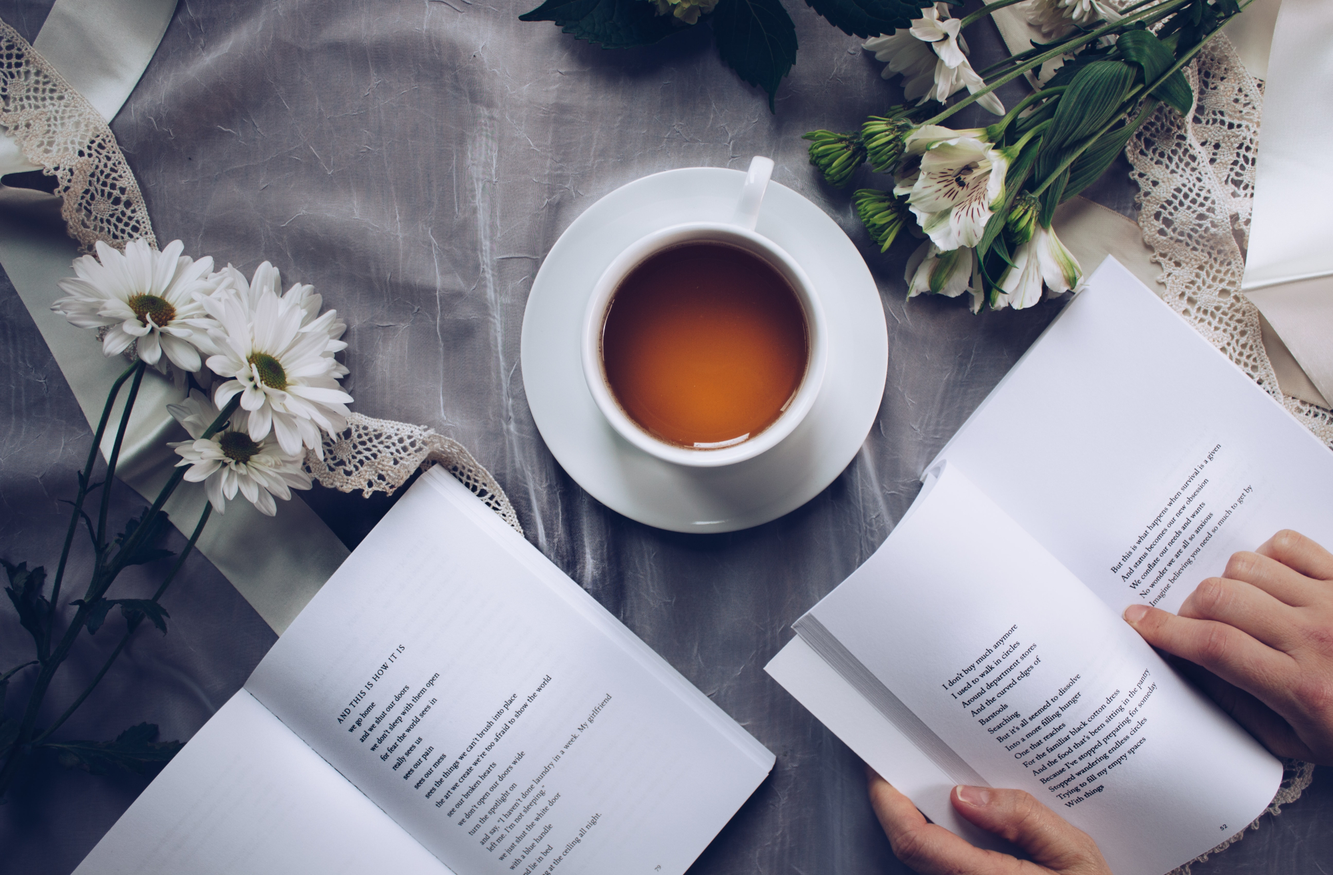
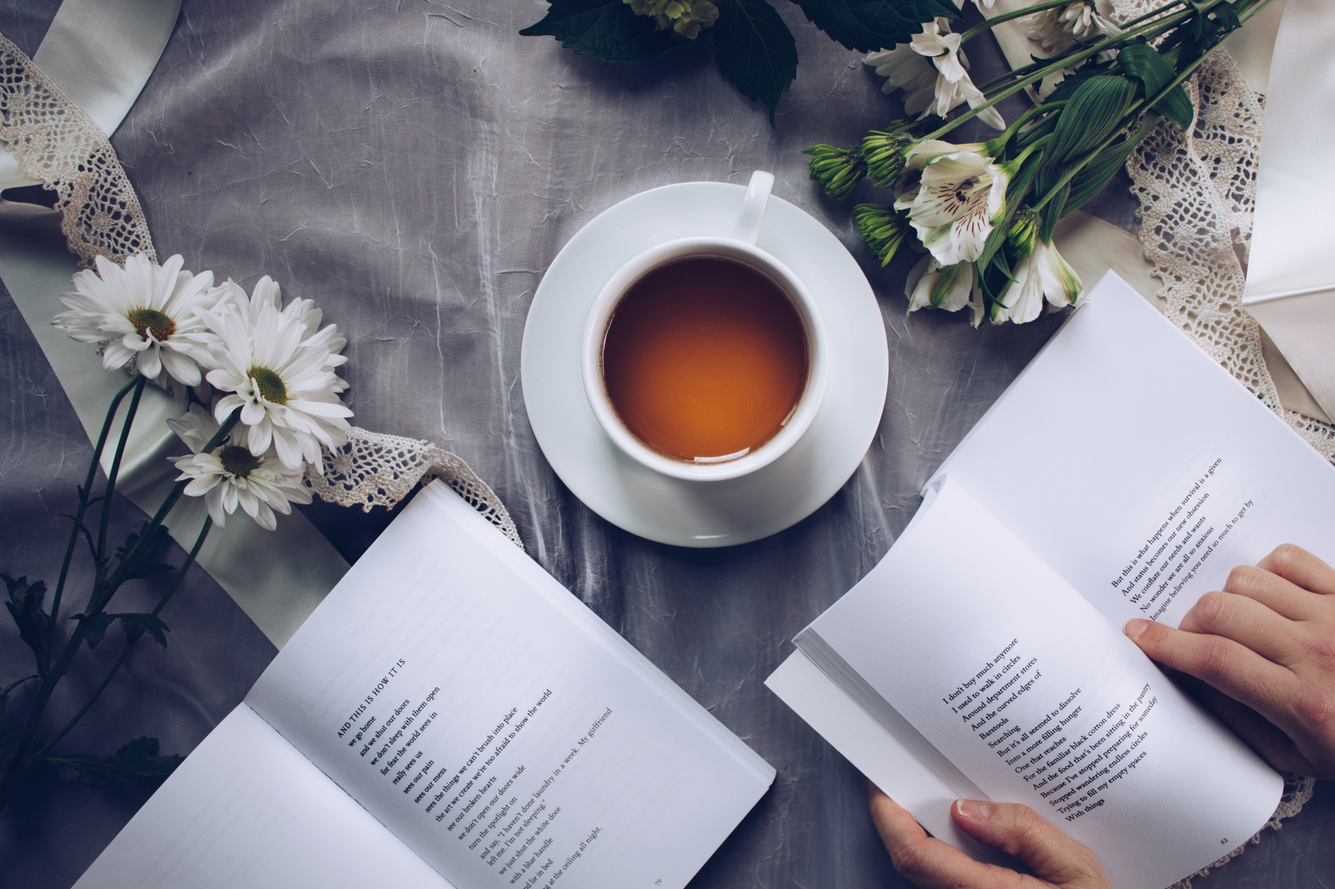
Added About. Added JS for images.

diff --git a/wwwroot/css/style.css b/wwwroot/css/style.css
@@ -102,6 +102,15 @@ nav ul {
     background-repeat: no-repeat;
     background-size: cover;
 }
+.parallax-about {
+    background-image: url("../img/books.jpg");
+    opacity: 0.7;
+    min-height: 500px;
+    background-attachment: fixed;
+    background-position: 70% 20%;
+    background-repeat: no-repeat;
+    background-size: cover;
+}
 
 .welcome-div, .blogg-div {
     text-align: center;
@@ -162,6 +171,9 @@ nav ul {
         font-family: "Poiret One", cursive;
         font-weight: 100;
         padding: 10px;
+    }
+    .concept-text p {
+        margin-bottom: 10px;
     }
 
     .concept-text i {
@@ -225,6 +237,27 @@ input[type="submit"] {
 .back a:hover, .back a:hover:visited {
     text-decoration: underline;
 }
+
+/* Sektion C*/
+.section-c h3 {
+    font-family: "Poiret One", cursive;
+    text-align: center;
+    font-size: 1.5em;
+    font-weight: 100;
+    margin-bottom: 10px;
+}
+div.polaroid {
+    width: 80%;
+    background-color: #e1f4f3;
+    box-shadow: 0 4px 8px 0 rgba(0, 0, 0, 0.2), 0 6px 20px 0 rgba(0, 0, 0, 0.19);
+    margin: 0 auto 25px auto;
+}
+
+div.member-info {
+    text-align: center;
+    padding: 10px 20px;
+    font-family: "Poiret One", cursive;
+}
 /* Footer */
 .main-footer {
     background-color: #333333;
@@ -232,6 +265,7 @@ input[type="submit"] {
     text-align: center;
     padding: 50px;
     color: #ffffff;
+    margin-top: 10px;
 }
 
     .main-footer a {
@@ -275,7 +309,14 @@ input[type="submit"] {
         background-position: 50% 30%;
         background-size: cover;
     }
-
+    .parallax-about {
+        background-image: url("../img/books.jpg");
+        min-height: 620px;
+        background-attachment: fixed;
+        background-repeat: no-repeat;
+        background-position: 50% 30%;
+        background-size: cover;
+    }
     /* Header*/
     .header {
         grid-column: 1/5;
@@ -462,6 +503,18 @@ input[type="submit"] {
         grid-column: 1/5;
         text-align: center;
         font-size: 2em;
+    }
+
+    /* Sektion C*/
+    #members {
+        display: grid;
+        grid-template-columns: 1fr 1fr 1fr;
+        margin: 10px 70px 10px 70px;
+    }
+   
+    div.polaroid {
+        width: 60%;
+        margin: 10px auto 10px auto;
     }
 
     /* Footer */

diff --git a/wwwroot/js/images.js b/wwwroot/js/images.js
@@ -1,0 +1,33 @@
+// Bilder
+
+window.addEventListener("load", renderItem);
+
+let bilder = ["http://studenter.miun.se/~ella1800/dt102g/img/img/anna.jpg",
+    "http://studenter.miun.se/~ella1800/dt102g/img/img/annika.jpg",
+    "http://studenter.miun.se/~ella1800/dt102g/img/img/elin.jpg",
+    "http://studenter.miun.se/~ella1800/dt102g/img/img/evelyn.jpg",
+    "http://studenter.miun.se/~ella1800/dt102g/img/img/ida.jpg",
+    "http://studenter.miun.se/~ella1800/dt102g/img/img/issa.jpg",
+    "http://studenter.miun.se/~ella1800/dt102g/img/img/jenny.jpg",
+    "http://studenter.miun.se/~ella1800/dt102g/img/img/malin.jpg",
+    "http://studenter.miun.se/~ella1800/dt102g/img/img/sara.jpg"];
+
+let namn = ["Anna", "Annika", "Elin", "Evelyn", "Ida", "Isabella", "Jenny", "Malin", "Sara"];
+
+function renderItem() {
+    let members = ""; // Skriver ut till DOM
+    for (i = 0; i < bilder.length; i++) {
+        members += `
+            <div class="polaroid">
+                <img src="${bilder[i]}" alt="bokklubbsmedlem">`;
+     
+            members += `
+                    <div class="member-info">
+                        <h4>${namn[i]}</h4>
+                    </div>
+                 </div>
+        `;
+  
+    }
+    document.getElementById("members").innerHTML = members;
+}

diff --git a/Controllers/HomeController.cs b/Controllers/HomeController.cs
@@ -85,5 +85,10 @@ namespace InlibrisVeritas.Controllers
             ViewBag.UserMessage = "E-post skickat";
             return View();
         }
+
+        public IActionResult About()
+        {
+            return View();
+        }
     }
 }
